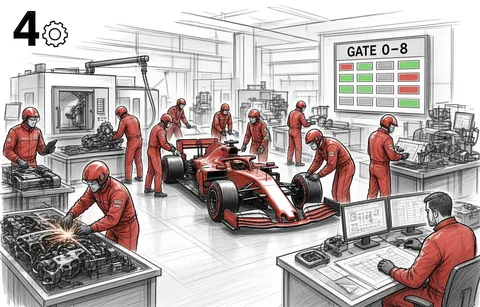
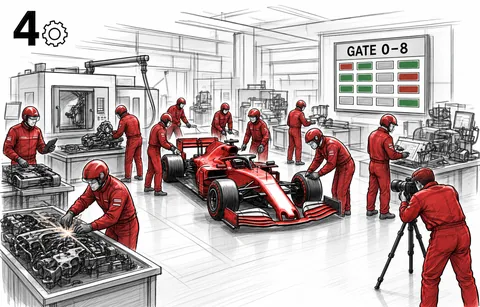
Stage 3 art: green light and start/finish flags; stage 4 art: photographer with tripod
Claude-Session: https://claude.ai/code/session_017xBw5gitytdq9UBNa5UPak

diff --git a/src/content/pitStopArt.ts b/src/content/pitStopArt.ts
@@ -14,7 +14,7 @@ export type PitStopCaption = {
 }
 
 /** Bump when the WebP files are regenerated so cached copies are refetched. */
-const ART_VERSION = 5
+const ART_VERSION = 6
 
 export function stepArtFor(locale: LocaleId, key: StepKey): string {
   return `/images/pit-stop/${locale}/${key}-1152.webp?v=${ART_VERSION}`
